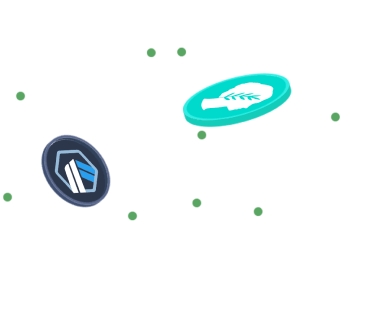
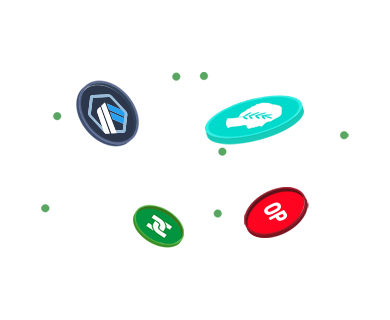
new bg + 404 page (#7)
* add beVELO to media-kit

* update gitignore

* add line at the end

* bump

* update hero with new bg

* 404 page

* fix bg quality and max scale

* prevent text collapse on small devices

* change container

* optimiser --> optimizer

* bump

diff --git a/src/components/Home/Hero/Hero.tsx b/src/components/Home/Hero/Hero.tsx
@@ -1,6 +1,6 @@
 import React, { memo } from 'react';
 import styled from '@emotion/styled';
-import { Inner } from '../../Common/Inner';
+import { FluidInner } from '../../Common/Inner';
 import bottomLeft from '../../../images/hero-bottom-left.png';
 import bottomRight from '../../../images/hero-bottom-right.png';
 import topLeft from '../../../images/hero-top-left.png';
@@ -13,7 +13,7 @@ const w = 390;
 const h = 320;
 const r = h / w;
 
-const Outer = styled.div`
+const CustomInner = styled(FluidInner)`
   display: flex;
   align-items: center;
   padding: ${40 + 24 * 2}px 0px;
@@ -23,17 +23,16 @@ const Outer = styled.div`
   background-size: ${(360 - 48) / 2}px ${((360 - 48) / 2) * r}px;
   min-height: 100vh;
   text-align: center;
+  flex-direction: column;
+  justify-content: center;
 
   @media (min-width: ${theme.breakpoints.sm}px) {
-    background-position: left top, right top, left bottom, right bottom;
+    background-position: left 5%, right 5%, left bottom, right bottom;
     background-size: ${(theme.breakpoints.sm - 48) / 2}px ${((theme.breakpoints.sm - 48) / 2) * r}px;
   }
 
-  @media (min-width: ${theme.breakpoints.md}px) {
-    background-size: ${(theme.breakpoints.md - 48) / 2}px ${((theme.breakpoints.md - 48) / 2) * r}px;
-  }
-
   @media (min-width: ${theme.breakpoints.lg}px) {
+    width: ${theme.containers.lg}px;
     background-size: ${w}px ${h}px;
   }
 `;
@@ -73,11 +72,22 @@ const Buttons = styled.div`
   justify-content: center;
 `;
 
+const Container = styled.div`
+  display: flex;
+  align-items: center;
+  flex-direction: column;
+  justify-content: center;
+  width: 100%;
+  @media (max-height: 600px) {
+    padding: ${48 * 2}px 0px;
+  }
+`;
+
 export const Hero = memo(function Hero() {
   return (
-    <Outer>
-      <Inner>
-        <Title>Multichain Yield Optimiser</Title>
+    <CustomInner>
+      <Container>
+        <Title>Multichain Yield Optimizer</Title>
         <Subtitle>
           Earn the highest APY’s across 16 chains with safety and efficiency in mind.
         </Subtitle>
@@ -89,7 +99,7 @@ export const Hero = memo(function Hero() {
             View Docs
           </SecondaryExternalLink>
         </Buttons>
-      </Inner>
-    </Outer>
+      </Container>
+    </CustomInner>
   );
 });

diff --git a/src/pages/404.tsx b/src/pages/404.tsx
@@ -1,11 +1,35 @@
 import React, { memo } from 'react';
+import styled from '@emotion/styled';
 import { Inner } from '../components/Common/Inner';
+import notFound404 from '../images/404image.svg';
+import { PrimaryLink } from '../components/Common/Buttons';
+import { theme } from '../theme';
+
+const ErrorImage = styled.img`
+  margin-bottom: ${theme.spacing(4)};
+`;
+
+const Container = styled(Inner)`
+  display: flex;
+  flex-direction: column;
+  align-items: center;
+  justify-content: center;
+  height: 100%;
+  padding: 120px 16px;
+`;
+
+const Text = styled.div`
+  ${theme.bodyLgMed};
+  margin-bottom: ${theme.spacing(3)};
+`;
 
 const NotFoundPage = memo(function NotFoundPage() {
   return (
-    <>
-      <Inner>not found</Inner>
-    </>
+    <Container>
+      <ErrorImage src={notFound404} alt="error" />
+      <Text>We can’t find the page that you’re looking for</Text>
+      <PrimaryLink to="/">Back Home</PrimaryLink>
+    </Container>
   );
 });
 
